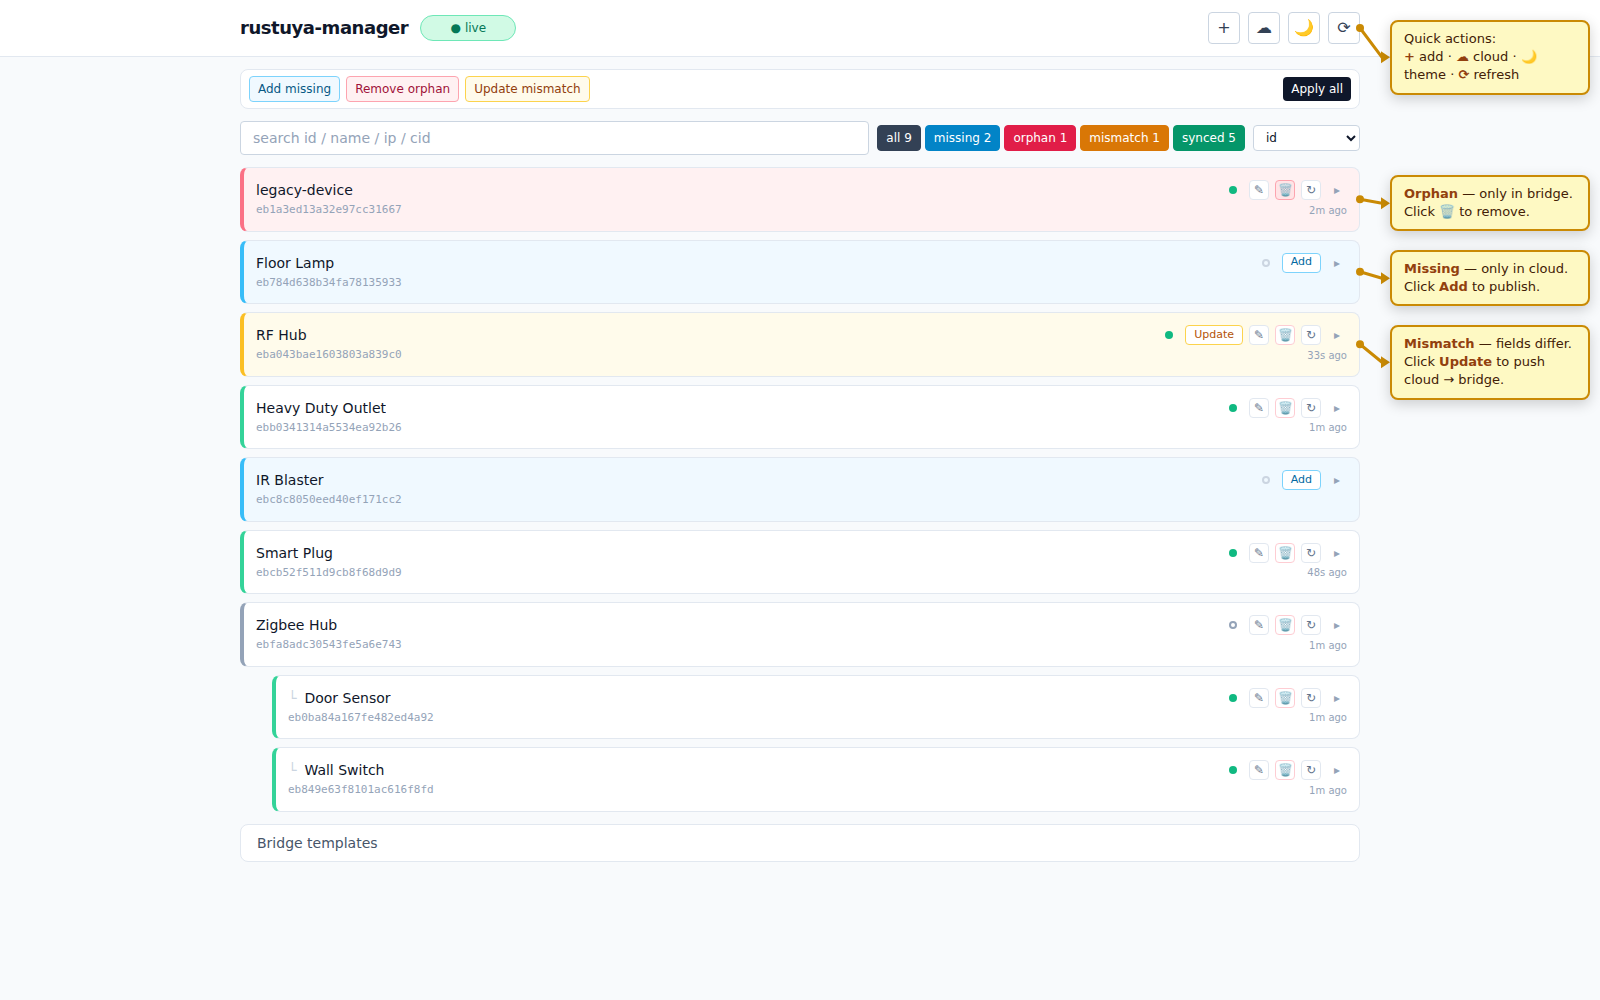
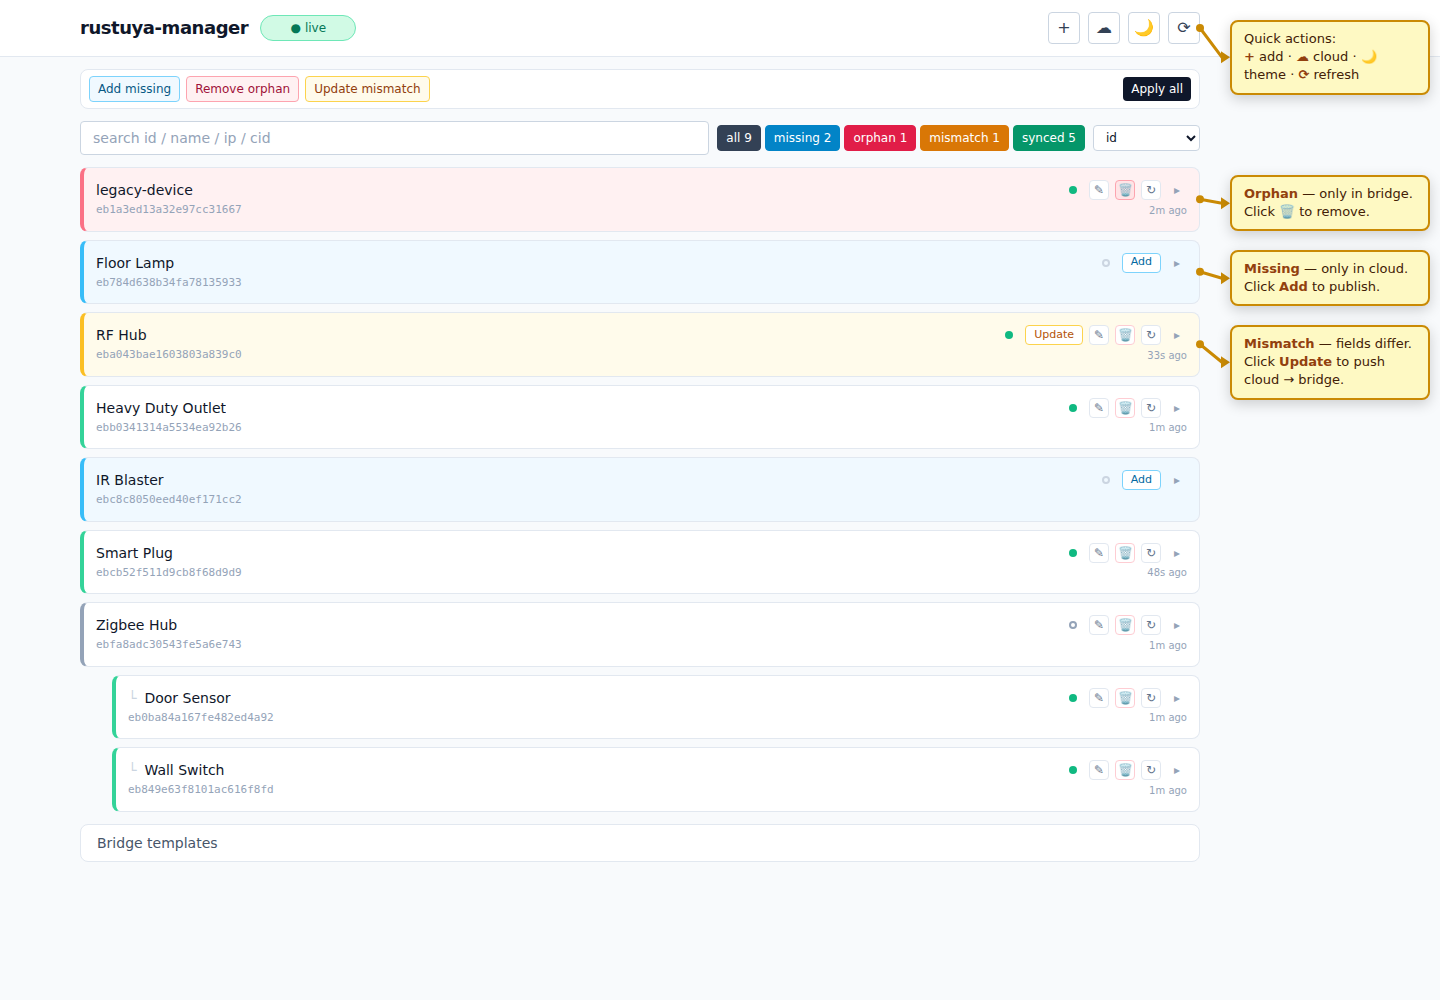
docs: trim the annotated screenshot's left margin
The wider viewport used to make room for the right-margin callouts
left the content centered with ~224px of empty space on each side,
making the annotated hero feel offset compared to the unannotated
shot's ~64px margin. `clip=x:160..1600` drops the extra left strip
at capture time, so the content's left edge lands at x=64 in the saved
image and the two screenshots feel like the same UI side-by-side.

diff --git a/scripts/capture_screenshots.py b/scripts/capture_screenshots.py
@@ -377,6 +377,13 @@ def main() -> None:
             # the actual UI elements without overlapping card content.
             # All annotation HTML is injected post-render via
             # page.evaluate, so the underlying app code is untouched.
+            #
+            # `clip` drops the extra left margin that the wide viewport
+            # introduces: content is centered (max-w-6xl + mx-auto) at
+            # x=224 in a 1600-wide viewport. Clipping x=160..1600 brings
+            # the content's left edge to x=64 in the saved image — the
+            # same horizontal offset as the 1280-wide unannotated shots,
+            # so the two screenshots feel like the same UI side-by-side.
             ctx = browser.new_context(
                 viewport={"width": 1600, "height": 1000}, color_scheme="light"
             )
@@ -384,7 +391,10 @@ def main() -> None:
             page.goto(url)
             page.get_by_text("RF Hub").first.wait_for()
             page.evaluate(_ANNOTATE_JS)
-            page.screenshot(path=str(OUT / "main-annotated.png"))
+            page.screenshot(
+                path=str(OUT / "main-annotated.png"),
+                clip={"x": 160, "y": 0, "width": 1440, "height": 1000},
+            )
             ctx.close()
 
             browser.close()
